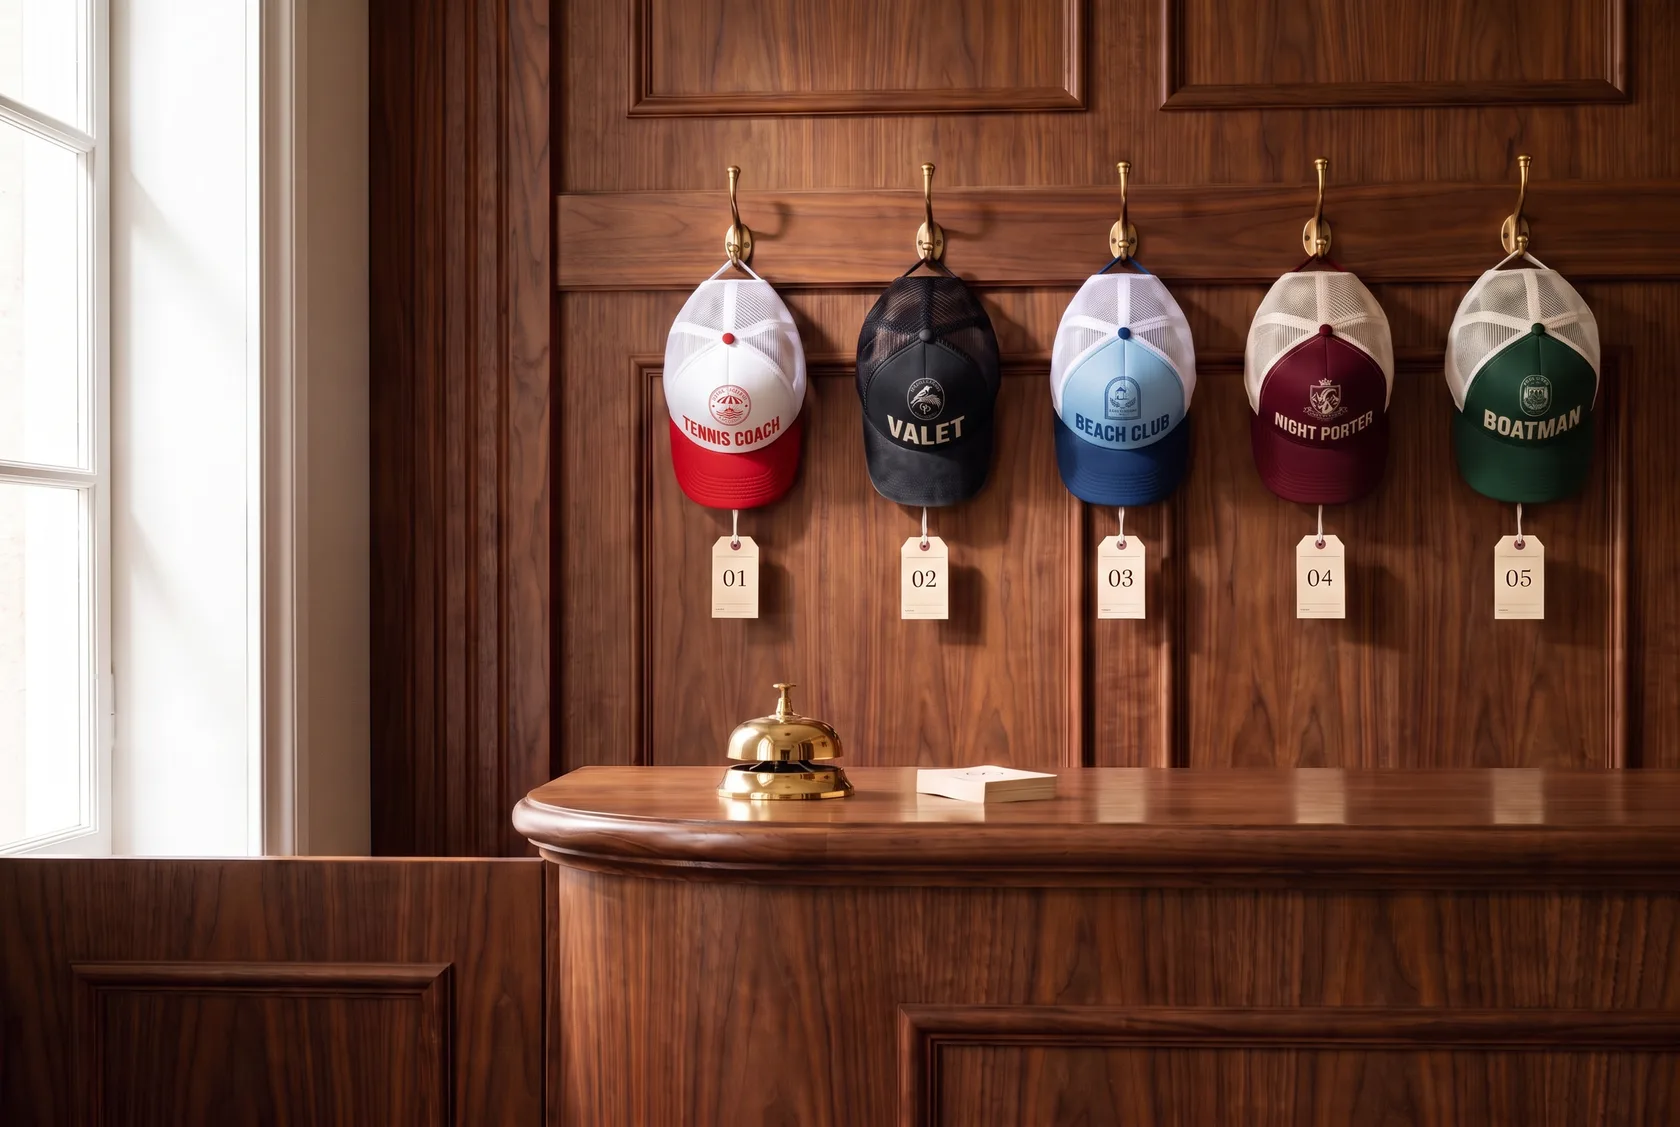
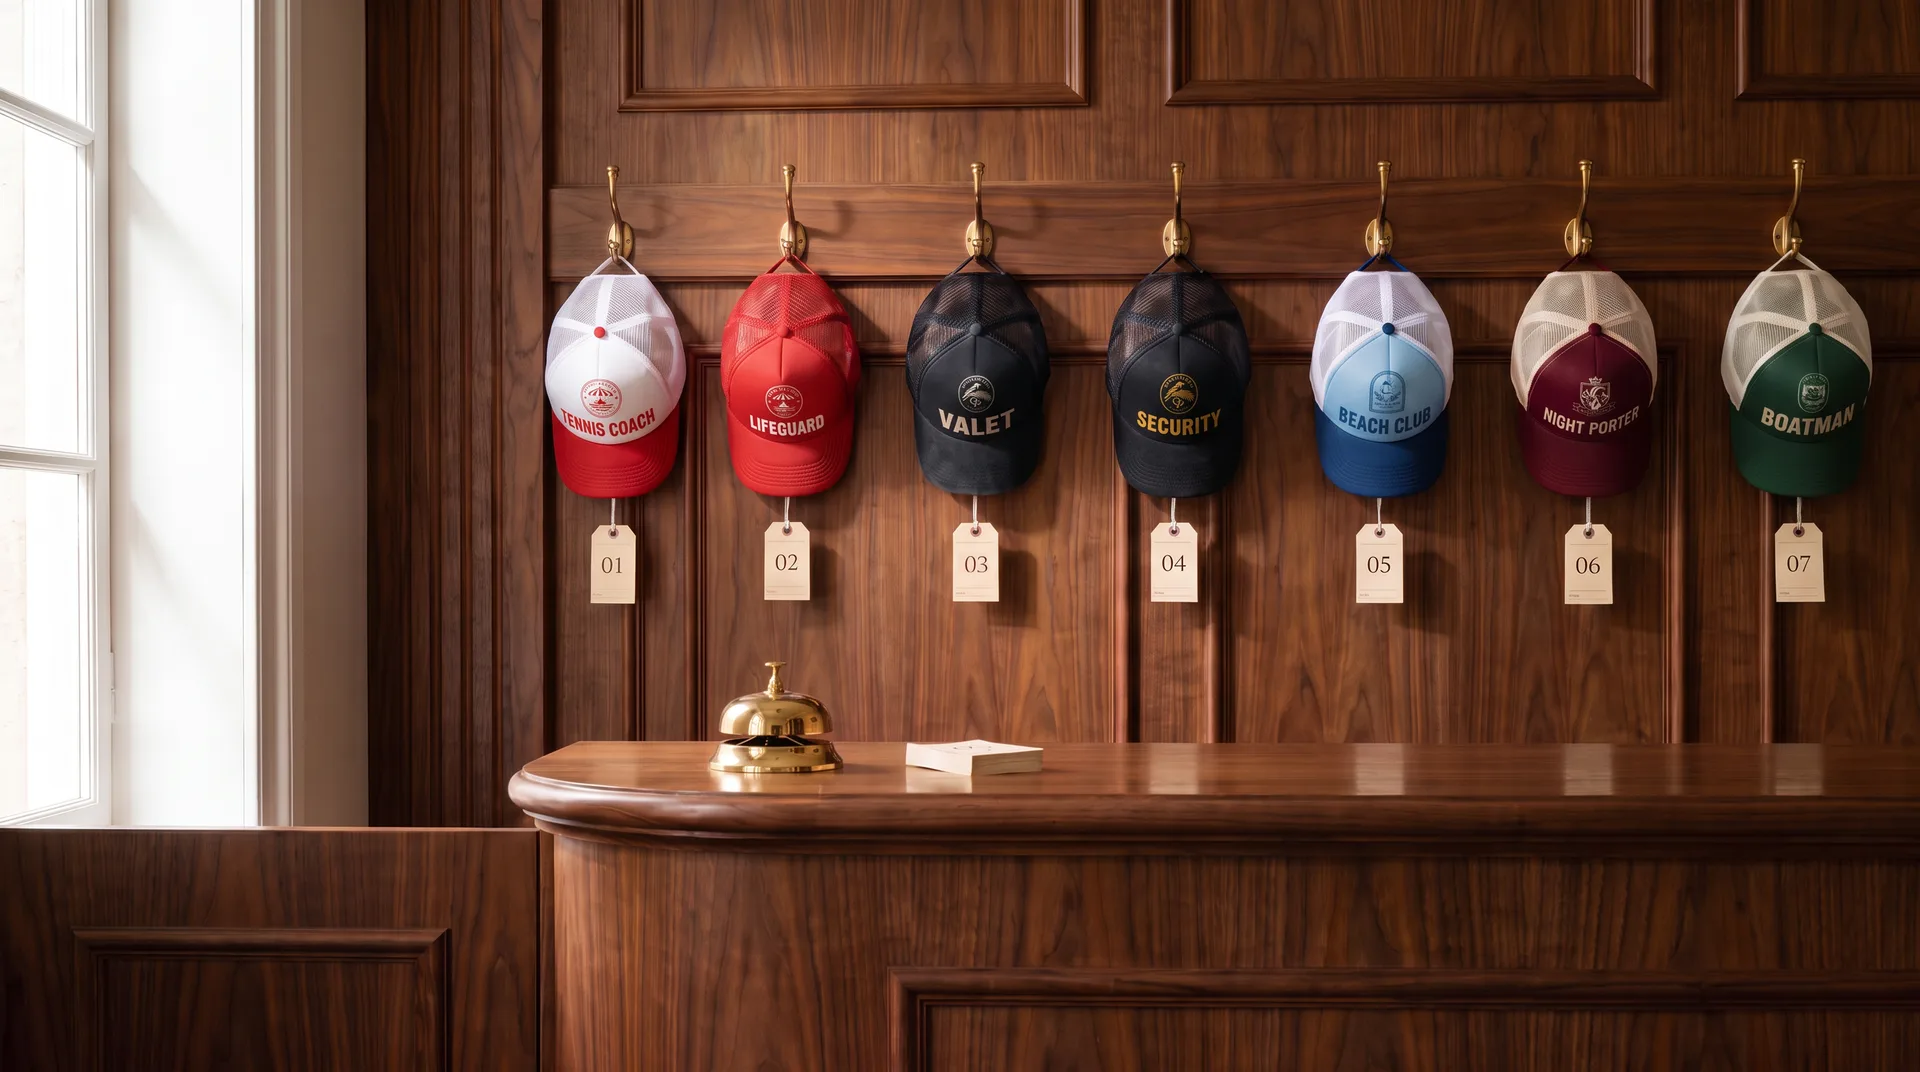
Hat Check caps: add Lifeguard and Security, gold ink token, seven-cap hero
Alex asked for Lifeguard (red with white print) and Security (black with gold).

Claude-Session: https://claude.ai/code/session_01VKpSUGtU2j83FFr4XgcnwY

diff --git a/brands/off-duty-hotel-club/merch.md b/brands/off-duty-hotel-club/merch.md
@@ -41,12 +41,14 @@ Run `checklists/crest-and-print.md` before anything goes to a supplier.
 
 ## Caps: Hat Check (proposed, 26 Oct 2026)
 
-A trucker-cap line, one per hotel, each for a department that works outside (mostly the ones the T-shirt store lists as "on the drawing board"). Not approved yet; preview only.
+A trucker-cap line of seven caps from the five hotels, each for a department that works outside: the ones the T-shirt store lists as "on the drawing board", plus Lifeguard and Security to match the shirts (added at Alex's request, 27 Oct 2026; Lifeguard red with white print, Security black with gold). Not approved yet; preview only.
 
 | Cap | Hotel | Front / mesh / peak | Ink |
 | --- | --- | --- | --- |
 | Tennis Coach | Hôtel Solvane, Saint-Tropez | white / white / clay red | red |
+| Lifeguard | Hôtel Solvane, Saint-Tropez | rescue red throughout | white |
 | Valet | The Oriole Palace, Los Angeles | washed black throughout | off-white `#f5f2ea` |
+| Security | The Oriole Palace, Los Angeles | washed black throughout | gold `ink-gold` `#c9a24e` |
 | Beach Club | Casa Thalene, Mykonos | pool blue / white / navy | navy |
 | Night Porter | Grand Valbrune, St. Moritz | burgundy / cream / burgundy | cream `#f1e6d2` |
 | Boatman | Villa Ceresa, Lake Lugano | cypress green / cream / cypress green | cream `#f1e6d2` |

diff --git a/CHANGELOG.md b/CHANGELOG.md
@@ -2,6 +2,9 @@
 
 Newest first. `## YYYY-MM-DD · brand · what changed`, then why.
 
+## 2026-10-27 · off-duty-hotel-club · Lifeguard and Security caps, gold ink
+Added Lifeguard (rescue red, white print) and Security (washed black, gold print) to the proposed Hat Check caps, at Alex's request, with draft art and photography. New token `ink-gold` (#c9a24e) for the Security cap print.
+
 ## 2026-10-26 · off-duty-hotel-club · Hat Check caps (proposed)
 Added a proposed trucker-cap line (one cap per hotel), its draft front art (`artwork/caps/`) and generated photography (`assets/photography/caps/`) for the Hat Check preview site on Base44. Merch spec in `merch.md` under "Caps". Also carries `assets/crests/villa-ceresa.svg` from the Head Gardener branch. Nothing here is approved yet. Later the same day: the print is now option C (crest over the job title), picked by Alex; art and photography redone to match.
 
